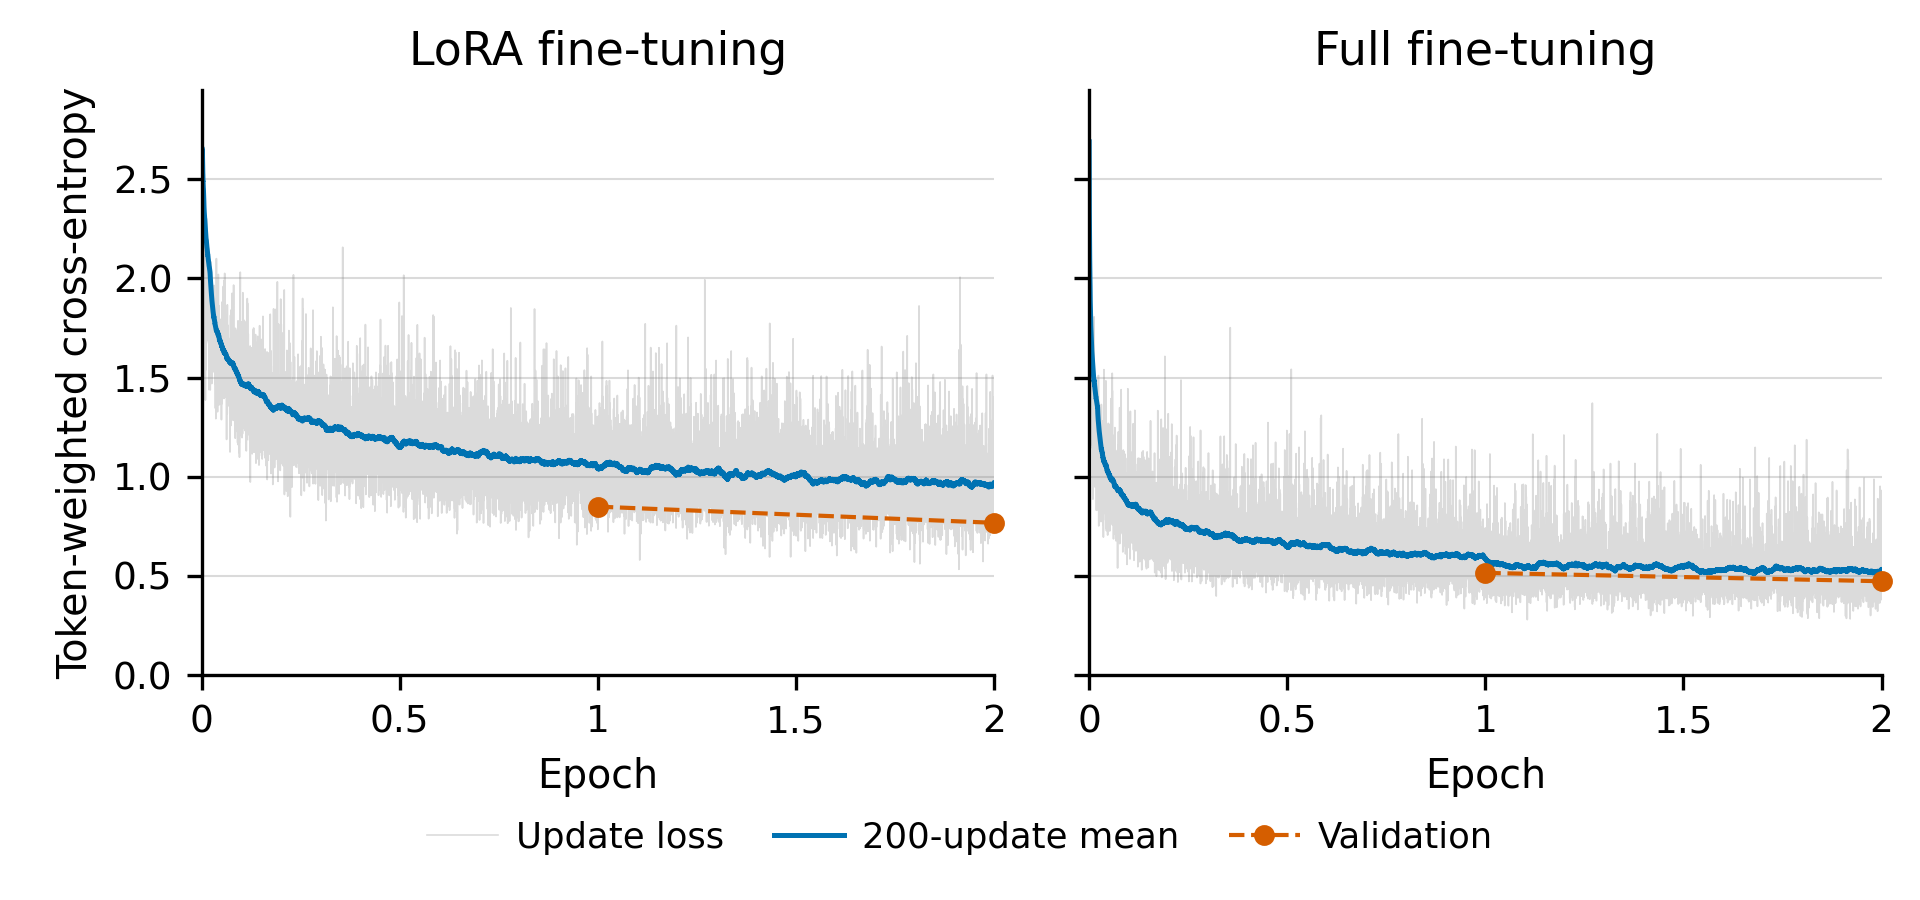
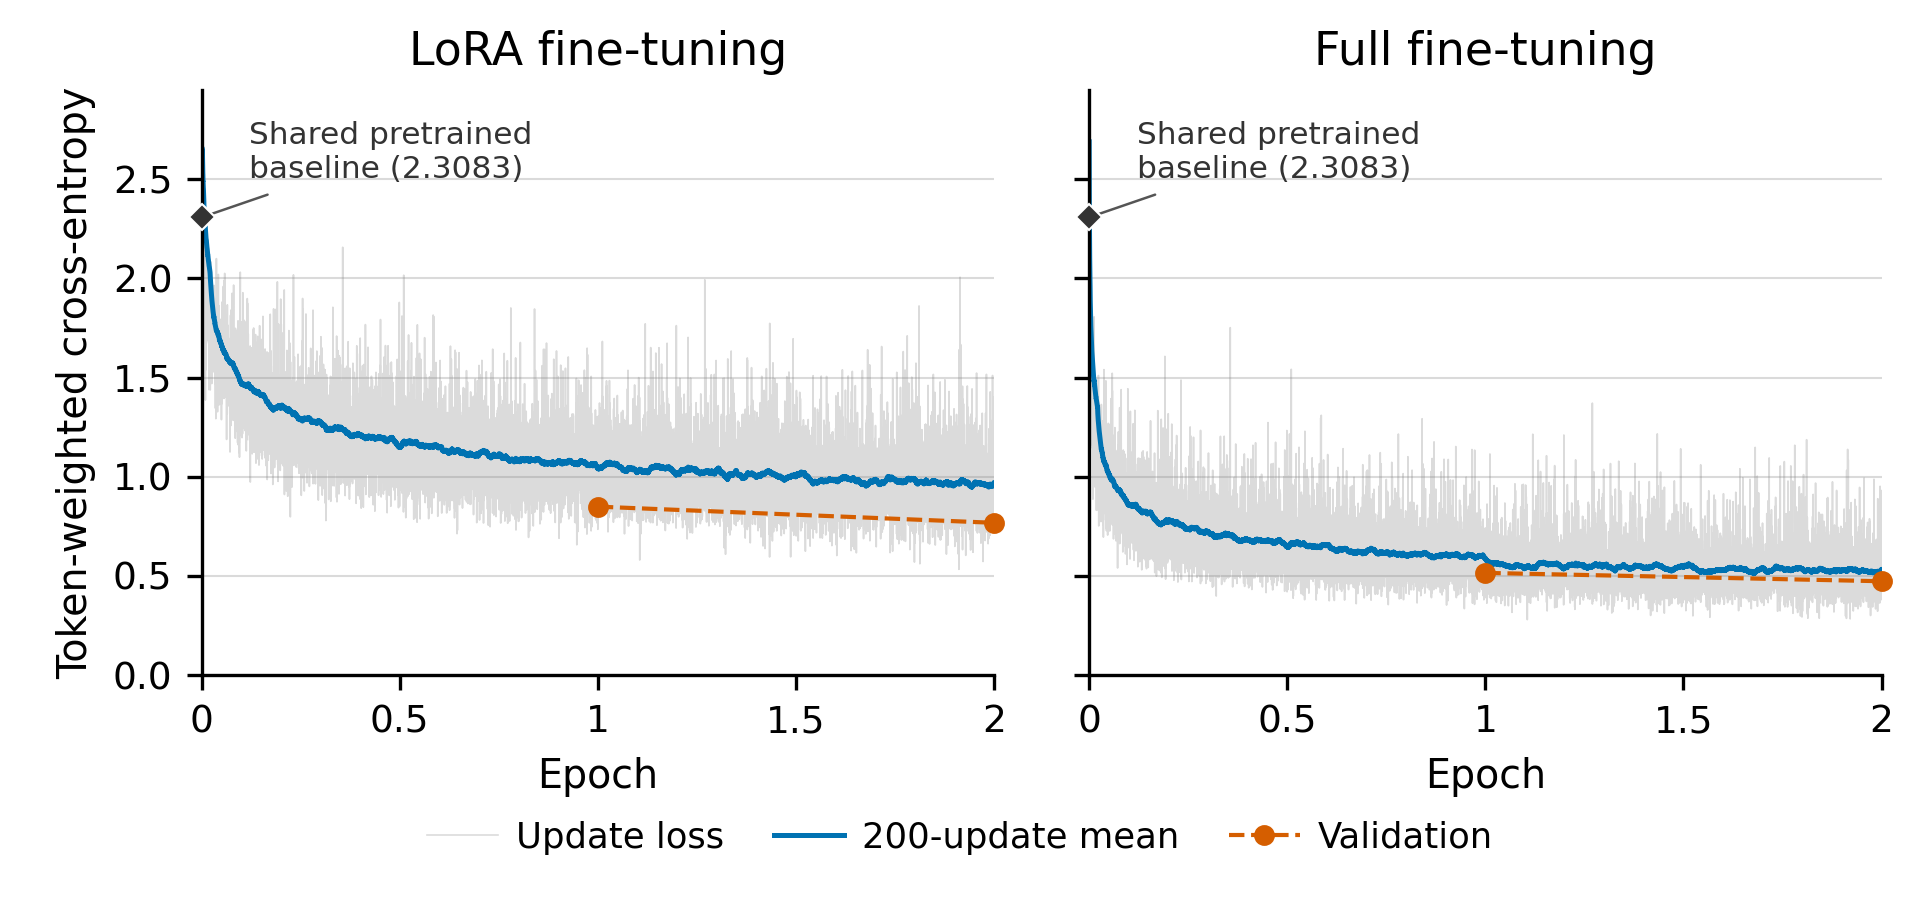
Updated Section 10, 11

diff --git a/recognition/FLAN-T5_46375489/README.md b/recognition/FLAN-T5_46375489/README.md
@@ -5,8 +5,6 @@
 Weiming Liang — 46375489  
 COMP3710, Task 2.6
 
-30 October 2026
-
 [Problem](#sec-problem) · [Algorithm](#sec-algorithm) · [Feasibility review](#sec-feasibility) · [Example inputs and outputs](#sec-examples) · [Data](#sec-dataset) · [Installation and usage](#sec-usage) · [Reproducibility](#sec-experiments) · [Results](#sec-results) · [Error analysis](#sec-safety) · [Recommendation](#sec-recommendation) · [AI disclosure](#sec-ai-disclosure) · [References](#sec-references)
 
 <a id="sec-problem"></a>
@@ -649,21 +647,21 @@ For the exact-pair comparison, the complete source report and target summary mus
 
 ### 10.1. Engineering recommendation and required actions
 
-Use full fine-tuning as the main development approach, with full epoch 2 as the current prototype and epoch 1 retained for clinician comparison. Use LoRA only if full fine-tuning exceeds resource limits and a LoRA trial meets them. Section [10.2](#trade-off-synthesis) explains the trade-offs behind this recommendation.
+Use full fine-tuning for further development, with full epoch 2 as the current prototype and epoch 1 retained for clinician comparison. Use LoRA only if full fine-tuning exceeds resource limits and a LoRA trial meets them.
 
-The prototype is not ready for patient use. Full epoch 2 still has 4–9% AI-flagged hallucinations and 5–14% critical omissions across assessors. However, these assessments are AI-based and requires further validation by clinicians before deployment.
+The prototype is not ready for patient use. Full epoch 2 has 4–9% AI-flagged hallucinations and 5–14% critical omissions across assessors. These judgments require clinician validation before deployment.
 
 <a id="next-engineering-steps"></a>
 
 Prioritise the following work:
 
-1.  **Check resources.** Measure peak memory, complete runtime and disk needs on the intended GPU with long inputs and targets. Reduce batch sizes and use gradient accumulation if needed. If trialling LoRA, benchmark inference after merging the adapters into the base model to check whether this closes the measured speed gap.
+1.  **Check resources.** Define training and deployment hardware and resource budgets. Measure peak memory, complete runtime and storage with long inputs and targets; adjust training batch size and gradient accumulation if needed.
 
-2.  **Remove exact overlaps.** Controlled overlap-removal retraining was not completed for the final experiment and remains future work. Exclude training pairs matching validation and record the removals. Restart from pretrained weights and train for two epochs, keeping validation and settings fixed. Compare with a control that removes the same number of training pairs at random.
+2.  **Audit overlap in stages.** First remove training pairs with exact validation matches and record removals. Retrain from pretrained weights for two epochs with fixed validation and settings, comparing against a control that removes the same number of training pairs at random. Then assess near-duplicates and longer shared passages before choosing broader filters.
 
-3.  **Extend training.** After the two-epoch overlap comparison, continue full fine-tuning on the filtered training data for more epochs. Evaluate after each epoch and select the best checkpoint using validation loss and how accurately its summaries reflect the source reports. Set a training budget and an early-stopping rule before starting.
+3.  **Extend training.** After the controlled comparison, continue full fine-tuning for more epochs on the filtered data. Evaluate each epoch and select checkpoints using validation loss and summary fidelity to the source. Set a budget and early-stopping rule beforehand.
 
-4.  **Validate clinical guardrails.** Have clinicians compare checkpoint outputs against the same 100 source reports in random order, with model labels hidden. Use their judgments to validate automated checks for unsupported or missing findings, location, negation and uncertainty. Withhold flagged summaries from patient display and route them to clinician review.
+4.  **Validate clinical checks.** Have clinicians assess outputs against the same 100 source reports, with checkpoint labels hidden and output order randomised. Validate automated checks against their judgments and withhold flagged summaries from patient display.
 
 5.  **Check patient understanding.** Test clinician-reviewed summaries with readers without medical training. Show source and summary together, flag truncated inputs and require clinician approval before patient use.
 
@@ -673,29 +671,30 @@ Prioritise the following work:
 
 <a id="tab-trade-off-synthesis"></a>
 
-**Table 8.** Measured trade-offs and their implications for the recommendation, based on Sections [8](#sec-results) and [9](#sec-safety).
+**Table 7.** Measured trade-offs and their implications, based on Sections [8](#sec-results) and [9](#sec-safety).
 
 | Trade-off | Engineering implication |
 |:---|:---|
-| Full fine-tuning achieves higher ROUGE, including on examples without exact training-pair matches, but uses more training memory. | Prefer it when memory permits; use LoRA as the resource fallback. |
-| LoRA saves training memory and adapter storage but showed similar training time. | Choose it for memory and storage savings. The measured runs show no training-time advantage, and the base model is still required. |
-| Higher ROUGE and readability coexist with factual errors. | Include source fidelity in model selection, validate automated guardrails and require clinician review before patient use. |
-| Full epoch 2 improves ROUGE and hallucination ratings; all three AI assessors flag slightly fewer omissions at full epoch 1. | Retain both checkpoints for clinician comparison. The omission gaps are only 1–3 reports out of 100 and do not establish epoch 1 as the better model. |
+| Full fine-tuning achieves higher ROUGE, including on pairs without exact training matches, but uses more training memory. | Allow for higher peak memory before scaling batch size or input length. |
+| LoRA training checkpoints occupy 14 MB versus 2.97 GB for full fine-tuning; training times are similar. | Useful when storing many checkpoints. Sizes include training state; LoRA still needs the frozen base weights. |
+| Unmerged LoRA generates 280 versus 374 tokens/s for full fine-tuning in the recorded batched workload. | Benchmark merged adapters on the chosen target; merging was not evaluated. |
+| Higher ROUGE and readability coexist with AI-flagged factual errors. | Include source fidelity in selection and require clinician approval before patient use. |
+| Full epoch 2 improves ROUGE and observed hallucination rates; epoch 1 has 1–3 fewer omission flags per 100 reports. | Compare both with clinicians; these small gaps do not establish epoch 1 as superior. |
 
 <a id="sec-ai-disclosure"></a>
 
 ## 11. Artificial Intelligence Usage Disclosure
 
-I used OpenAI Codex, ChatGPT, Gemini, Claude, Claude Code and the Antigravity IDE to support the project. I determined the investigation’s scope, selected the comparisons and directed revisions. I manually reviewed generated code and other content and sought clarification where needed.
+I used AI assistants through OpenAI Codex, ChatGPT, Gemini, Claude, Claude Code and the Antigravity IDE to support the project. I set the scope, selected comparisons and directed revisions. I manually reviewed AI-generated outputs, sought clarification where needed, directed testing appropriate to each component and inspected the results. I also used AI from different providers to cross-check one another’s outputs.
 
 - **Concepts and planning.** AI supported conceptual clarification, literature interpretation and experimental planning, including model selection, evaluation criteria and resource constraints.
 
-- **Implementation and testing.** AI assisted with code development, refactoring and debugging. Assistants checked changes through separate-agent reviews, controlled CPU tests, before-and-after comparisons, checkpoint checks and small GPU test runs.
+- **Implementation and testing.** AI assisted with code development, refactoring and debugging. AI checked changes through separate-agent reviews, controlled CPU tests, before-and-after comparisons, checkpoint checks and small GPU test runs.
 
-- **Experiments and analysis.** Assistants executed the training and evaluation runs, verified metrics and examples against saved results and dataset records, and analysed dataset overlap and model errors. ChatGPT, Gemini and Claude provided clinical-fidelity and readability scores (Section [9.1](#sec-quality-review)); automated checks verified score completeness and the reported summary calculations.
+- **Experiments and analysis.** AI executed the training and evaluation runs, verified metrics and examples against saved results and dataset records, and analysed dataset overlap and model errors. ChatGPT, Gemini and Claude provided clinical-fidelity and readability scores (Section [9.1](#sec-quality-review)); automated checks verified score completeness and the reported summary calculations.
 
 - **Writing and presentation.** AI assisted with report drafting and revision, including figures, tables, plain-language explanations, usage instructions and source attribution. I directed the organisation and presentation and requested corrections supported by project evidence.
-  
+
 <a id="sec-references"></a>
 
 ## 12. References and Attribution
